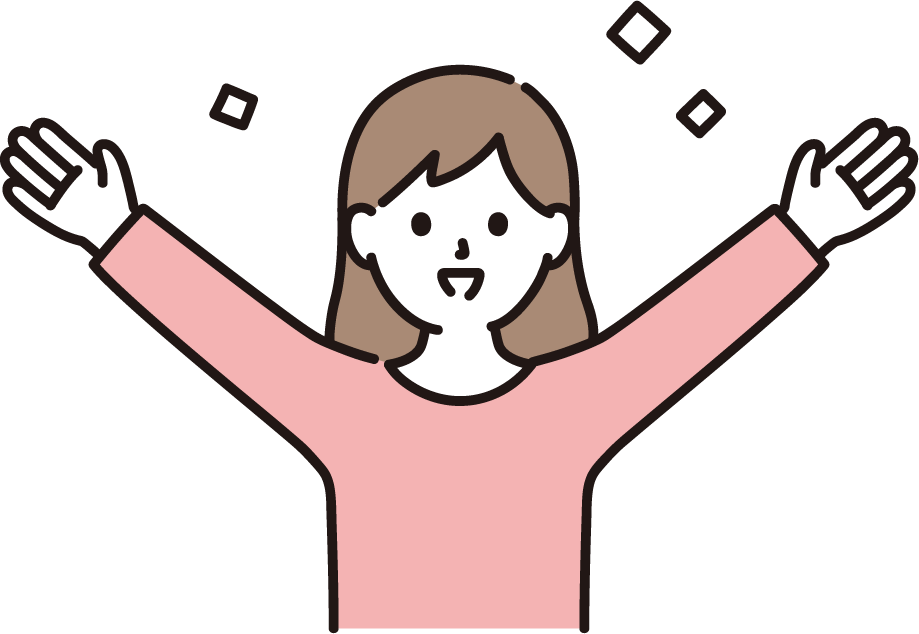
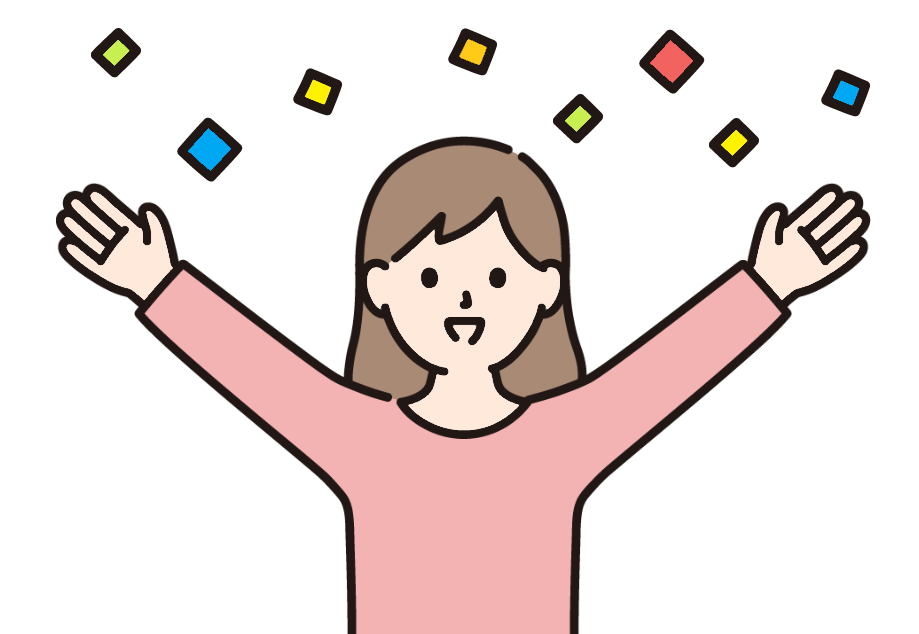
edit : 피드백 페이지 그림 변경

Changed region(s): [[0.0, 0.03, 1.0, 1.0], [0.6398, 0.0, 0.8226, 0.2697], [0.0914, 0.03, 0.1523, 0.1199]]

diff --git a/frontend/src/pages/Student/GoodFeedback.module.css b/frontend/src/pages/Student/GoodFeedback.module.css
@@ -39,10 +39,9 @@
 }
 
 .feedback img {
-  opacity: 0.3;
   position: absolute;
   object-fit: cover;
-  width: 150%;
+  width: 80%;
 }
 
 .b {
